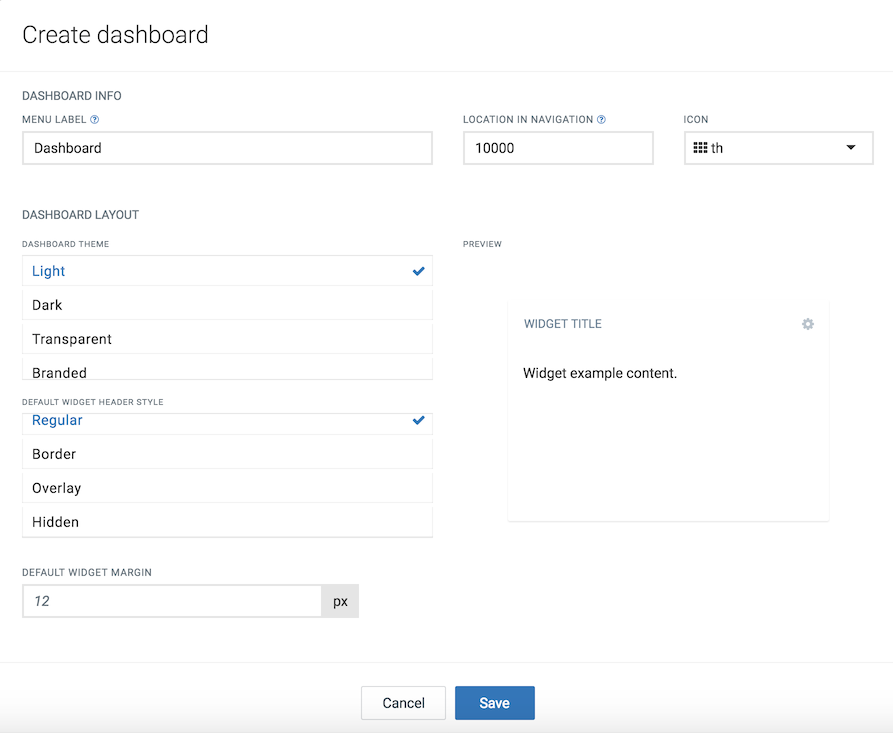
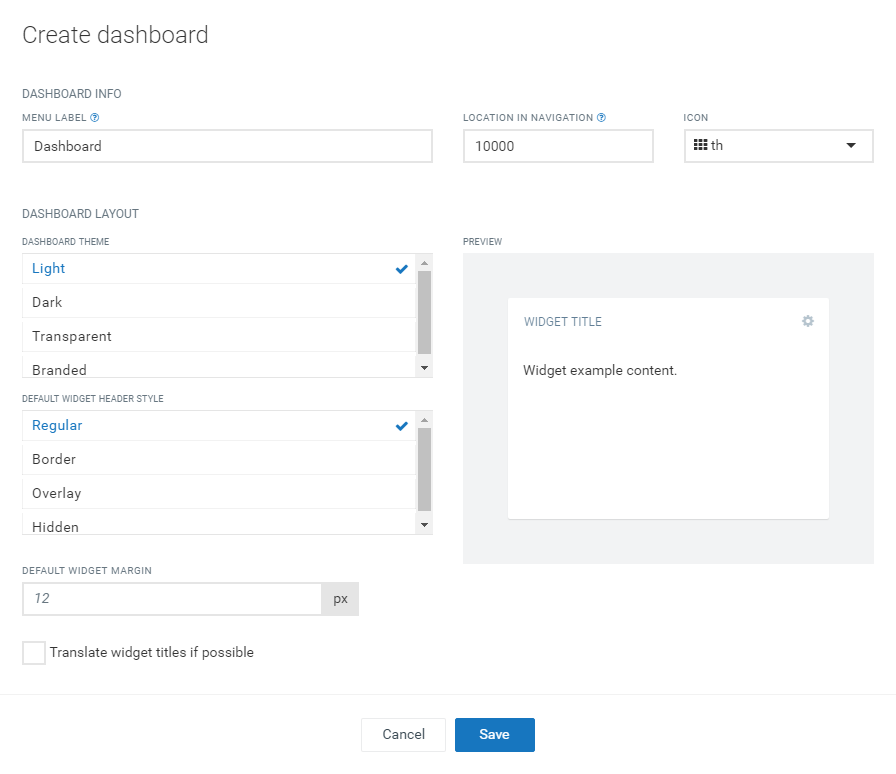
MTM-24882 Added info regarding widget ttitle translations during dashboard creation.

diff --git a/src/render/guides/users-guide/cockpit/dashboards.html.md b/src/render/guides/users-guide/cockpit/dashboards.html.md
@@ -26,7 +26,11 @@ In the **Dashboard info** section of the dashboard editor, provide the following
 * The location of the dashboard in the navigator, with "10000" being ordered first and "-10000" last
 * An icon which is shown next to the dashboard name in the navigator
 
-In the **Dashboard layout** section you can select a theme for the dashboard (one of "Light", "Dark", "Transparent" or "Branded") and a default header style for the widgets (one of "Regular", "Border", "Overlay", or "Hidden"). Moreover, you can change the default widget margin (default value is 15 px). 
+In the **Dashboard layout** section you can select a theme for the dashboard (one of "Light", "Dark", "Transparent" or "Branded") and a default header style for the widgets (one of "Regular", "Border", "Overlay", or "Hidden"). Moreover, you can change the default widget margin (default value is 15 px).
+
+Additionally, you can enable the "Translate widget titles if possible" option. If enabled, the widget title will be translated every time the language is changed.
+
+> **Info:** The widget titles will be translated only if a valid translation is available. 
 
 A preview of the selected layout settings is immediately displayed in the "Preview" section at the right to visualize your selections.
 
